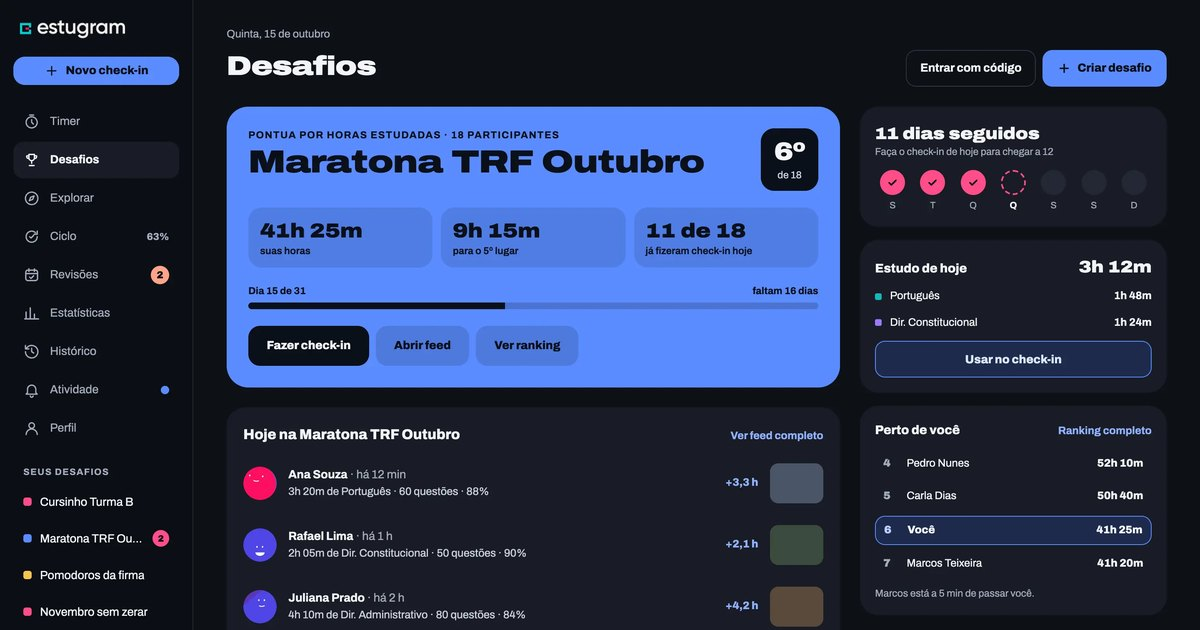
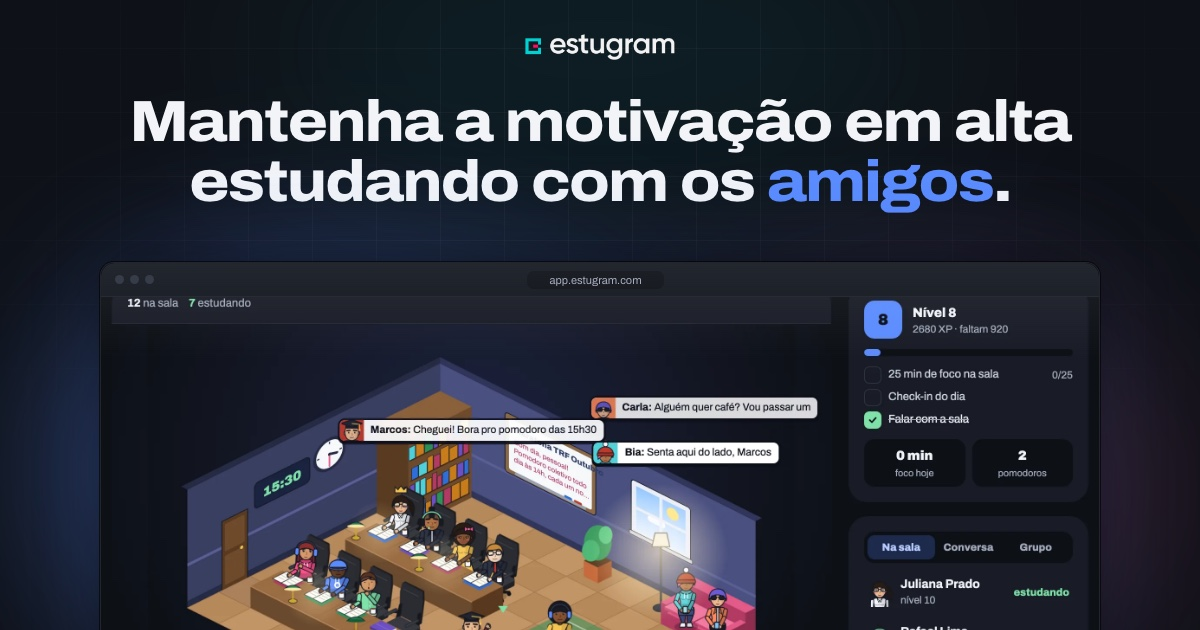
adiciona script para geração de imagem OG e cria arquivo HTML correspondente

diff --git a/og/og.html b/og/og.html
@@ -1,0 +1,196 @@
+<!doctype html>
+<!-- Fonte da imagem de prévia de link (public/og.jpg). Para gerar de novo: npm run og -->
+<html lang="pt-BR">
+  <head>
+    <meta charset="utf-8" />
+    <link rel="preconnect" href="https://fonts.googleapis.com" />
+    <link rel="preconnect" href="https://fonts.gstatic.com" crossorigin />
+    <link
+      rel="stylesheet"
+      href="https://fonts.googleapis.com/css2?family=Archivo:wdth,wght@62..125,400..900&display=block"
+    />
+    <style>
+      :root {
+        --bg: #0e1117;
+        --text: #f2f4f8;
+        --muted: #a3abbd;
+        --blue: #5b8cff;
+      }
+      * {
+        box-sizing: border-box;
+      }
+      html,
+      body {
+        margin: 0;
+        width: 1200px;
+        height: 630px;
+        overflow: hidden;
+        background: var(--bg);
+        color: var(--text);
+        font-family: 'Archivo', sans-serif;
+        -webkit-font-smoothing: antialiased;
+      }
+      .cena {
+        position: relative;
+        width: 1200px;
+        height: 630px;
+        overflow: hidden;
+        isolation: isolate;
+      }
+
+      /* Fundo: as mesmas manchas de luz e a grade fina do herói da landing */
+      .aurora i {
+        position: absolute;
+        border-radius: 50%;
+        filter: blur(90px);
+        z-index: -2;
+      }
+      .a1 {
+        width: 620px;
+        height: 420px;
+        left: 40px;
+        top: 260px;
+        background: rgb(91 140 255 / 0.3);
+      }
+      .a2 {
+        width: 520px;
+        height: 380px;
+        right: 20px;
+        top: 300px;
+        background: rgb(255 77 138 / 0.14);
+      }
+      .a3 {
+        width: 700px;
+        height: 260px;
+        left: 250px;
+        top: -80px;
+        background: rgb(0 209 209 / 0.07);
+      }
+      .grade {
+        position: absolute;
+        inset: 0;
+        z-index: -1;
+        background-image:
+          linear-gradient(rgb(255 255 255 / 0.035) 1px, transparent 1px),
+          linear-gradient(90deg, rgb(255 255 255 / 0.035) 1px, transparent 1px);
+        background-size: 64px 64px;
+        background-position: -8px -16px;
+        mask-image: radial-gradient(ellipse 70% 70% at 50% 30%, #000 30%, transparent 85%);
+      }
+
+      .logo {
+        position: absolute;
+        top: 34px;
+        left: 50%;
+        translate: -50% 0;
+        height: 26px;
+      }
+
+      .copy {
+        position: absolute;
+        top: 92px;
+        left: 0;
+        right: 0;
+        text-align: center;
+      }
+      h1 {
+        margin: 0 auto;
+        max-width: 1000px;
+        font-size: 58px;
+        font-weight: 800;
+        font-stretch: 112%;
+        line-height: 1.04;
+        letter-spacing: -0.03em;
+        text-wrap: balance;
+      }
+      h1 em {
+        font-style: normal;
+        color: var(--blue);
+      }
+
+      /* Print da sala numa janela de navegador, cortado pela borda de baixo */
+      .janela {
+        position: absolute;
+        left: 50%;
+        top: 262px;
+        width: 1000px;
+        translate: -50% 0;
+        border-radius: 14px;
+        background: #0a0d12;
+        border: 1px solid rgb(255 255 255 / 0.1);
+        box-shadow:
+          0 0 0 1px rgb(0 0 0 / 0.6),
+          0 -10px 60px -20px rgb(0 0 0 / 0.8),
+          0 0 140px -30px rgb(91 140 255 / 0.35);
+        overflow: hidden;
+      }
+      .janela::after {
+        content: '';
+        position: absolute;
+        inset: 0;
+        border-radius: inherit;
+        pointer-events: none;
+        background: linear-gradient(180deg, rgb(255 255 255 / 0.07), transparent 22%);
+      }
+      .barra {
+        display: flex;
+        align-items: center;
+        height: 34px;
+        padding: 0 14px;
+        background: #12161e;
+        border-bottom: 1px solid rgb(255 255 255 / 0.05);
+      }
+      .pontos {
+        display: flex;
+        gap: 6px;
+      }
+      .pontos i {
+        width: 9px;
+        height: 9px;
+        border-radius: 50%;
+        background: #2a303d;
+      }
+      .url {
+        margin: 0 auto;
+        translate: -24px 0;
+        font-size: 11px;
+        color: var(--muted);
+        background: #0c0f15;
+        border-radius: 7px;
+        padding: 3px 22px;
+      }
+      /* Recorte com zoom na sala e na coluna da direita (coordenadas do sala@2x.webp, 2880x1800) */
+      .vista {
+        position: relative;
+        height: 400px;
+        overflow: hidden;
+      }
+      .vista img {
+        position: absolute;
+        width: calc(2880px * var(--s));
+        left: calc(-520px * var(--s));
+        top: calc(-400px * var(--s));
+        --s: 0.4329;
+      }
+    </style>
+  </head>
+  <body>
+    <div class="cena">
+      <div class="aurora"><i class="a1"></i><i class="a2"></i><i class="a3"></i></div>
+      <div class="grade"></div>
+
+      <img class="logo" src="../public/estugram-logo-branca.png" alt="" />
+
+      <div class="copy">
+        <h1>Mantenha a motivação em alta estudando com os <em>amigos</em>.</h1>
+      </div>
+
+      <div class="janela">
+        <div class="barra">
+          <span class="pontos"><i></i><i></i><i></i></span>
+          <span class="url">app.estugram.com</span>
+        </div>
+        <div class="vista"><img src="../public/telas/sala@2x.webp" alt="" /></div>
+      </div>
+    </div>
+  </body>
